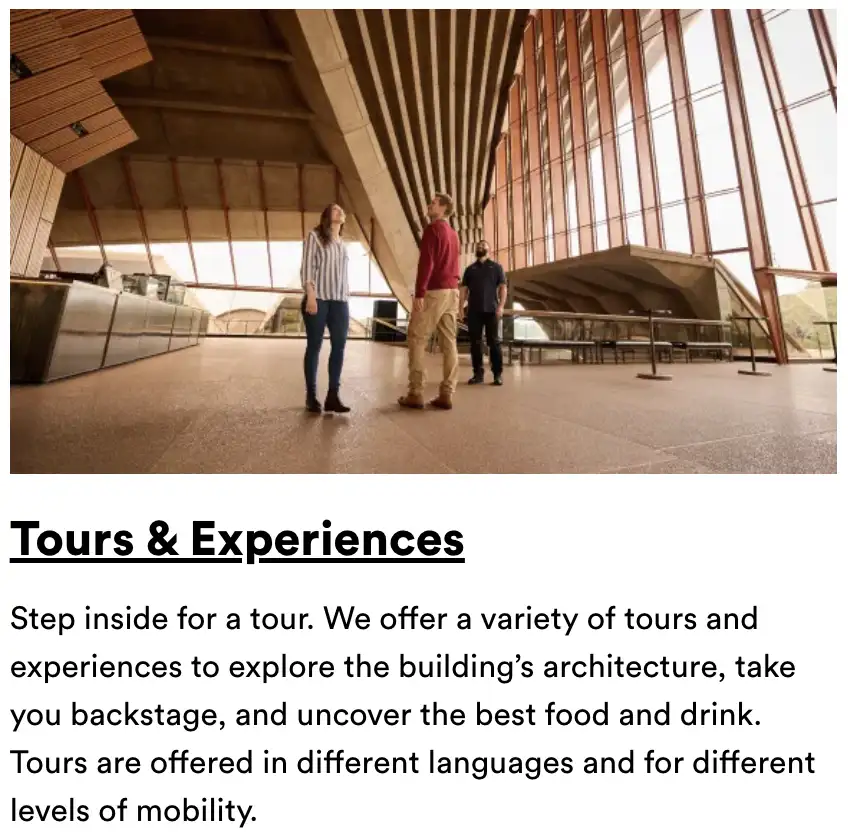
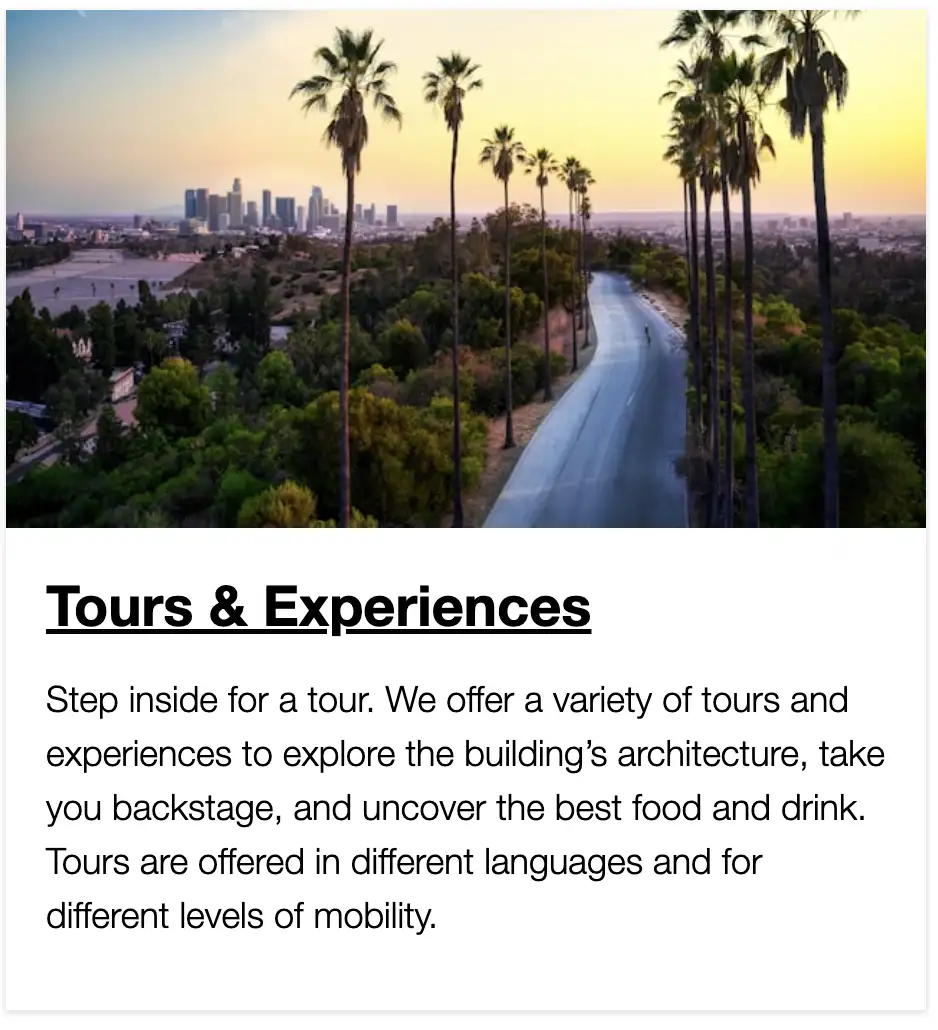
Completes editing and changes poster images

diff --git a/src/css/components/post.css b/src/css/components/post.css
@@ -49,22 +49,26 @@
   h2,
   h3,
   h4 {
-    margin-block-start: var(--size-30);
+    margin-block-start: var(--size-34);
     margin-block-end: var(--size-12);
   }
 
   h2 {
-    font-size: var(--font-size-20);
+    font-size: var(--font-size-22);
   }
 
   h3 {
-    font-size: var(--font-size-18);
+    font-size: var(--font-size-20);
   }
 
   ol {
     p {
       margin: 0;
     }
+  }
+
+  ul li ul {
+    margin-block-end: var(--size-24);
   }
 }
 

diff --git a/src/css/utilities/sizes.css b/src/css/utilities/sizes.css
@@ -19,6 +19,7 @@
   --size-28: 2.8rem;  /* 28px */
   --size-30: 3rem;    /* 30px */
   --size-32: 3.2rem;  /* 32px */
+  --size-34: 3.4rem;  /* 34px */
   --size-36: 3.6rem;  /* 36px */
   --size-40: 4rem;    /* 40px */
   --size-44: 4.4rem;  /* 44px */

diff --git a/src/blog/storybook-components.md b/src/blog/storybook-components.md
@@ -1,18 +1,24 @@
 ---
 date: "2024-05-01"
-title: "Integrating Storybook components with Drupal"
+title: "Integrating Drupal with Storybook components"
 tags: ['drupal','storybook','components']
 draft: false
 featured: true
-featuredImage: "/images/wall.webp"
-featuredImageAlt: "A brick wall"
-imageThumb: "/images/thumbs/wall-thumb.webp"
-featuredImageCredit: "Gustavo"
-featuredImageCreditUrl: "https://unsplash.com/@natura_photos"
+featuredImage: "/images/mountains.webp"
+featuredImageAlt: "Overlapped mountains painted with water colors"
+imageThumb: "/images/thumbs/mountains-thumb.webp"
+featuredImageCredit: "Alex Shutin"
+featuredImageCreditUrl: "https://unsplash.com/@fiveamstories"
 summary: "In this post we'll go over the process of making Drupal aware of the components we have built in Storybook."
 ---
 Hey you're back! 🙂 In the [previous post](../building-a-modern-drupal-theme-with-storybook) we talked about how to build a custom Drupal theme using Storybook as the design system.  We also built a simple component to demonstrate how Storybook, through the use of custom extensions, is able to understand Twig.  In this post, the focus will be on making Drupal aware of those components by connecting Drupal to Storybook.
-If you are following along, we will continue where we left off to take advantage of all the prep work we did in the previous post.
+If you are following along, we will continue where we left off to take advantage of all the prep work we did in the previous post. Topics we will cover in this post include:
+
+1. What is Drupal integration
+1. Installing and preparing Drupal for integration
+1. Building components in Storybook
+1. Building a basic front-end workflow
+1. Integrating Drupal with Storybook components
 
 ## What is Drupal integration?
 
@@ -22,20 +28,20 @@ The advantage of using a design system like Storybook is that you are in full co
 
 ## Getting a Drupal site ready
 
-In the previous post all the work we did was in a standalone project which did not require Drupal to run since all the work was about getting Storybook up and running, In this section, we will get the Drupal environment ready by building a basic Drupal site. If you are following along and already have a Drupal 10 site ready, you can skip the first step below;
+In the previous post all the work we did was in a standalone project which did not require Drupal to run, In this post, we get to interact with Drupal so we need at the very least a basic Drupal site up and running. If you are following along and already have a Drupal 10 site ready, you can skip the first step below;
 
 1. Build a basic Drupal 10 website ([I recommend using DDEV](https://ddev.readthedocs.io/en/stable/users/quickstart/#drupal){target=_blank rel=noopener}).
-1. Add the **storybook** theme to your website. If you completed the excercise in the previous post, you can copy the theme you built into your site's **/themes/custom/**. Otherwise, you can clone [the previous post repo](https://github.com/mariohernandez/storybook){target=_blank rel=nooperner} into the same location so it becomes your theme. After this your theme structure should look like this: **themes/custom/storybook**.
+1. Add the **storybook** theme to your website. If you completed the excercise in the previous post, you can copy the theme you built into your site's **/themes/custom/** directory, Otherwise, you can clone [the previous post repo](https://github.com/mariohernandez/storybook){target=_blank rel=nooperner} into the same location so it becomes your theme. After this your theme's path should be **themes/custom/storybook**.
 1. No need to enable the theme just yet, we'll comeback to the theme shortly.
-1. Create a new node of type Article, be sure to include body content. We'll use this node later in the process.
+1. Finally, create a new Article post that includes a title, body content and an image of your choice. We'll use this article later in the process.
 
 ## Back to Storybook
 
 The title component we built in the previous post may not be enough to demonstrate some of the advanced techniques when integrating components. We will build a larger component to put these techniques in practice. The component we will build is called **Card** and it looks like this:
 
-![People standing on lobby of large building](/images/storybook-card.webp){.body-image .body-image--narrow}
+![Palm trees in front of city buildings](/images/storybook-card.webp){.body-image .body-image--narrow}
 
-When building components, I like to take inventory of the different parts that make up the components I'm building. The card image above shows three parts: the image, the title, and the teaser text. Each of these parts translate into fields when I am defining the data structurefor the component or building the entity in Drupal.
+When building components, I like to take inventory of the different parts that make up the components I'm building. The card image above shows three parts: the image, the title, and the teaser text. Each of these parts translates into fields when I am defining the data structurefor the component or building the entity in Drupal.
 
 ## Building the Card component
 
@@ -47,7 +53,7 @@ When building components, I like to take inventory of the different parts that m
   * **card.twig**: component's markup and logic
   * **card.stories.jsx**: Storybook's story
   * **card.yml**: component's demo data
-* Update **card.yml** as follows:
+* Add the following code snippet to **card.yml**:
 {% raw %}
 
 ```yml
@@ -64,7 +70,7 @@ teaser: 'Step inside for a tour. We offer a variety of tours and experiences to 
 
 {% endraw %}
 
-* Update **card.twig** as follows:
+* Add the following to **card.twig** to provide the markup and logic for the card:
 {% raw %}
 
 ```php
@@ -97,7 +103,7 @@ teaser: 'Step inside for a tour. We offer a variety of tours and experiences to 
 
 * Copy [these styles](https://raw.githubusercontent.com/mariohernandez/storybook/card/src/components/02-molecules/card/card.css){target=_blank rel=noopener} into **card.css**.
 
-* Update **card.stories.jsx** as follows:
+* Finally, let's create the Storybook card story by adding the following to **card.stories.jsx**:
 {% raw %}
 
 ```js
@@ -128,13 +134,13 @@ Let's go over a few things regarding the code above:
 * **card.twig** reuses the title component we created in the previous post. This is Atomic Design in action. Because we built a flexible title component, we can use it on anything where a title is needed.
 * **card.stories.jsx** in the Storybook story for the Card, notice how the code in this file is very similar to the code in the **title.stories.jsx**. Even with complex components, when we port them into Storybook as stories, most times the code will be similar as what you see above because Storybook is simply rendering whatever is in **.twig** and **.yml** files. There are exceptions when the React code may have extra parameters or logic which typically happens when we're building stories variations.
 
-### Before we preview the Card, some changes are needed
+### Before we preview the Card, some updates are needed
 
-You may have noticed in **card.twig** we used the namespace **@atoms** when nesting the **title** component into the card. As previously described, you can have as many namespaces as needed based on your components organization and naming convention. The namespace above does not exist and we need to create it now. In addition, we need to move the **title** component from its original location:
+You may have noticed in **card.twig** we used the namespace **@atoms** when nesting the **title** component. The namespace above does not exist and we need to create it now. In addition, we need to move the **title** component into the **01-atoms** directory:
 
 * In your code editor or command line (whichever is easier), move the **title** directory into the **01-atoms** directory
 * In your editor, open **title.stories.jsx** and change the line **title: 'Components/Title'** to **title: 'Atoms/Title'**. This will display the title component within the Atoms category in Storybook's sidebar.
-* Rather than have you individually make changes inside **vite.config.js**, instead, replace all of its content with the following:
+* Rather than have you make individual changes to **vite.config.js**, let's replace/overwrite all of its content with the following:
 
 {% raw %}
 
@@ -177,21 +183,29 @@ export default defineConfig({
 
 {% endraw %}
 
-Let's go over the changes inside **vite.config.js**:
+Let's go over some of the most noticeable updates inside **vite.config.js**:
 
 * We have defined a few things to improve the functionality of our Vite project, starting with using **src** as our app root directory and **public** for publicDir. This helps the app understand the project structure in a relative manner.
-* Next we defined a Build task which provides the app some parameters and defaults for things like where should it compiled code to (i.e. **/dist**), and rollupOptions for instructiing the app which stylesheets to compile and what to call them.
+* Next we defined a Build task which provides the app with defaults for things like where should it compiled code to (i.e. **/dist**), and rollupOptions for instructing the app which stylesheets to compile and what to call them.
 * As part of the rollupOptions we also defined two stylesheets for global styles (**reset.css** and **styles.css**). We'll create these next.
-**IMPORTANT** This is as basic as it gets for a build job. When working on a bigger project with more components, it is best to define a more robust and dynamic workflow that automatically identifies and compiles your assets.
-* Under the Plugins section, we have defined two new namespaces, **@atoms** and **@molecules**, each of which points to specific path. These are the namespaces Storybook understands when incuding/nesting components. You can have as many namespaces as needed.
+**IMPORTANT** This is as basic as it gets for a build workflow and in no way would I recommend this be your front-end build workflow. When working on bigger projects with more components, it is best to define a more robust and dynamic workflow that provides automation for all the repeatitive tasks performed on a typical front-end project.
+* Under the Plugins section, we have defined two new namespaces, **@atoms** and **@molecules**, each of which points to specific path within our components directory. These are the namespaces Storybook understands when incuding/nesting components. You can have as many namespaces as needed.
 
 ### Adding global styles
 
 * Inside the **src** directory, create a new directory called **css**
 * Inside the **css** directory, add two new files, **reset.css** and **styles.css**
 * Copy and paste the styles for [reset.css](https://raw.githubusercontent.com/mariohernandez/storybook/card/src/css/reset.css){target=_blank rel=noopener} and [styles.css](https://raw.githubusercontent.com/mariohernandez/storybook/card/src/css/styles.css){target=_blank rel=noopener}
+* Now in order for Storybook to use _reset.css_ and _styles.css_, we need to update **/.storybook/preview.js** by adding these two imports directly after the current imports, around line 4.
 
-Now we are ready to preview the Card story in Storybook.
+{% raw %}
+
+```js
+import '../dist/css/reset.css';
+import '../dist/css/styles.css';
+```
+
+{% endraw %}
 
 ### Previewing the Card in Storybook
 
@@ -203,11 +217,14 @@ Now we are ready to preview the Card story in Storybook.
 ```shell
 nvm install
 npm install
+npm run build
 npm run storybook
 ```
 
 {% endraw %}
 _Remember, you need NodeJS v20 or higher as well as NVM installed on your machine_.
+
+**NOTE**: The command `npm run build` is required the first time you are building your Storybook app and whenever major changes are made to the app's configuration. After that, you can simply run `npm run storybook`.
 
 After Storybook launches, you should see two story categories in Storybook's sidebar, **Atoms** and **Molecules**. The title component should be under Atoms and the Card under Molecules. See below:
 
@@ -225,14 +242,12 @@ With the Card component now in place, let's change our attention back to Drupal.
 ```yml
 components:
   namespaces:
-    atoms:
-      - src/components/01-atoms
-    molecules:
-      - src/components/02-molecules
+    atoms: src/components/01-atoms
+    molecules: src/components/02-molecules
 ```
 
 {% endraw %}
-_These are the same namespaces we created earlier for Storybook, but this time we are creating them for Drupal_
+_These are the same namespaces we created earlier for Storybook, but this time we are creating them for Drupal_.
 
 * Override all content in **storybook.libraries.yml** with the following:
 
@@ -255,44 +270,42 @@ card:
 
 {% endraw %}
 
+* Let's go over the changes to both, **storybook.info.yml** and **storybook.libraries.yml** files:
+
+  * The block of code we added in **storybook.info.yml** is critical for Drupal to find our components in Storybook.  Using the Components libraries module allows us to create namespaces. Namespaces make it easier for us to tell Drupal where to look for our components since each namespace (`@atoms`, `@molecules`, etc.), is associated with a specific path to the corresponding components. This is important because Drupal by default only looks for Twig templates inside the **/templates** directory.
+  * We added two CSS stylesheets (reset.css and styles.css), that handle base styles in our theme. Those stylesheets are included in the Global library.  In addition, if you recall when we created the Card component, the first line inside **card.twig** is a Twig attach library statement. Using libraries is the recommended way for adding CSS and JS to pages/components.  The library does not exist so in the second part of the code snippet in **storybook.libraries.yml** we add the library so Drupal can make use of the card's CSS and JS (if available).
+
 * Enable the Storybook theme and make it the default theme.
-
-Let's go over the changes to both, **storybook.info.yml** and **storybook.libraries.yml** files:
-
-* The block of code we added in **storybook.info.yml** is critical for Drupal to find our components in Storybook.  Using the Components libraries module allows us to create namespaces. Namespaces make it easier for us to tell Drupal where to look for our components since each namespace (`@atoms`, `@molecules`, etc.), is associated with a specific path to the corresponding components. This is important because Drupal by default only looks for Twig templates inside the **/templates** directory.
-* We added two CSS stylesheets (reset.css and styles.css), that handle base styles in our theme. Those stylesheets are included in the Global library.  In addition, if you recall when we created the Card component, the first line inside **card.twig** is a Twig attach library statement. Using libraries is the recommended way for adding CSS and JS to pages/components.  The library does not exist so in the second part of the code snippet in **storybook.libraries.yml** we add the library so Drupal can make use of the card's CSS and JS (if available).
 
 ## Integrating the Card component
 
 ### Template suggestions
 
-All the pieces are in place to Integrate the Card component so Drupal can use it to render each news article when viewed in Teaser view mode.
+All the pieces are in place to Integrate the Card component so Drupal can use it to render article nodes when viewed in teaser view mode.
 
-* The first thing we need to do to begin the integration process is to determine which Twig template Drupal uses to render news articles in teaser view mode. One easy way to do this is to turn on Twig debugging. This used to be a complex configuration but starting with Drupal 10.1 you can now do it directly in Drupal's UI:
+* The first thing we need to do to begin the integration process is to determine which Twig template Drupal uses to render article nodes in teaser view mode. One easy way to do this is by turning Twig debugging on. This used to be a complex configuration but starting with Drupal 10.1 you can now do it directly in Drupal's UI:
 
   * While logged in with admin access, navigate to `/admin/config/development/settings` on your browser. This will bring up the Development settings page.
   * Check all the boxes on this page and click **Save settings**.  This will enable Twig debugging and disable caching.
 
-* With Twig debugging on, go to the homepage where the Article we created should be displayed in teaser mode. If you right-click on any part of the news article and select **inspect** from the context menu, you will see in detail all the templates Drupal is using to render the content on the current page.
+* With Twig debugging on, go to the homepage where the Article we created should be displayed in teaser mode. If you right-click on any part of the article and select **inspect** from the context menu, you will see in detail all the templates Drupal is using to render the content on the current page.
 **NOTE**: If your homepage does not display Article nodes in teaser view mode, you could create a simple Drupal view to list Article nodes in teaser view mode to follow along.
 
 ![Code inspector showing Drupal debugging](/images/storybook-debug.webp)
 _Example of code inspector showing Drupal templates_
 
-There are a lot of templates to see here but the ones we are interested in are the one with the name **node...***. These are the templates used to display any type of node in Drupal. In addition to template names, Twig debugging also tells us where the template being used is located (Drupal core, a module, our theme, etc.).
+There are a lot of templates to see here but the ones we are interested in are the ones with the name **node...***. These are the templates used to display any type of node in Drupal. In addition to template names, Twig debugging also tells us where the template being used is located (Drupal core, a module, our theme, etc.).
 I have marked with an arrow the template **node.html.twig**, which is the one Drupal is currently using to render the Article node. The template with an **X** before its name is the one currently being used to render the article.
-Just above the active template see a list of more templates that start with **node...**. These are known as template suggestions. Drupal is basically telling us that if we want to override the way a node is rendered, we can create a template inside our theme with any of the names being suggested.  The higher the template appears on that list, the more specific it is to the piece of content being rendered. For example, changes made to **_**node.html.twig**_** would affect ALL nodes throughout the site, whereas changes made to **node--article--teaser.html.twig** will only affect nodes of type **article** when displayed in **teaser** view mode.
+Just above the active template see a list of more templates that start with **node...**. These are known as template suggestions. Drupal is basically telling us that if we want to override the way a node is rendered, we can create a template inside our theme with any of the names being suggested.  The higher the template appears on the list, the more specific it is to the piece of content being rendered. For example, changes made to **_**node.html.twig**_** would affect ALL nodes throughout the site, whereas changes made to **node--article--teaser.html.twig** will only affect nodes of type **article** when displayed in **teaser** view mode.
 With this information on hand, it is clear to us the template suggestion we need to create is **node--article--teaser.html.twig**.
 
 #### Copy the template
 
-It's best to create our template suggestion by copying a similar template to the one we want to create.
+By looking at the path of the template in the code inspector, we can see that the original template being used is located inside the Olivero core theme. It's best to create our template suggestion by copying a similar template to the one we want to create.
 
-* Copy **/core/themes/olivero/templates/content/node--teaser.html.twig** into your theme's **/storybook/templates/content/**. Create the directory if it does not exist in yoru theme.
+* Copy **/core/themes/olivero/templates/content/node--teaser.html.twig** into your theme's **/storybook/templates/content/**. Create the directory if it does not exist.
 
 The template we just copied has a lot of information that may or may not be needed when integrating it with Storybook. If you recall, the Card component we built was made up of three parts: an image, a title, and teaser text.  Each of those are Drupal fields and these are the only fields we care about when integrating. Whenever I copy a template from Drupal core or a module into my theme, I like to leave the comments on the template untouched. This is helpful because this way you can reference all the details about the template as you override it.
-
-* Rename the newly copied template to **node--article--teaser.html.twig**
 
 ### The actual integration
 
@@ -304,11 +317,12 @@ The template we just copied has a lot of information that may or may not be need
 ```php
 {% set render_content = content|render %}
 
-{% set article_title =
-  'level': h2,
-  'modifier': 'card__title',
-  'text': label,
-  'url': url
+{% set article_title = {
+    'level': 2,
+    'modifier': 'card__title',
+    'text': label,
+    'url': url,
+  }
 %}
 
 {% include '@molecules/card/card.twig' with {
@@ -321,15 +335,20 @@ The template we just copied has a lot of information that may or may not be need
 
 {% endraw %}
 
-* We set a variable with `content|render` as its value. The only purpose for this variable is to make Drupal aware of the entire content array for chacing purposes.
-* Next we setup a variable called **article_title** so we can structure the title field the same way the title component was built.
-* We are using a Twig **include** statement with our namespace, **@molecules**, to nest the Card component into the node template. The same way we nested the Title component into the Card.
-* We map Drupal's attributes into the component's attributes placeholder so Drupal can inject any attributes such as CSS classes, IDs, Data attributes, etc. into the component.  This is important because we want to make sure our components still take advantage of everything Drupal has to offer.
-* Finally we map the image, title and teaser fields from Drupal to the component's equivalent fields.
+* We set a variable with `content|render` as its value. The only purpose for this variable is to make Drupal aware of the entire content array for caching purposes.
+* Next we setup a variable called **article_title** which we structured the same way as the title component:
+  * Notice how for the **text** and **url** properties we are using Drupal specific variables (**label** and **url**), accordingly. If you look in the comments in _node--article--teaser.html.twig_ you will see these two variables.
+* We are using a Twig **include** statement with the **@molecules** namespace to nest the Card component into the node template. The same way we nested the Title component into the Card.
+* We mapped Drupal's attributes into the component's attributes placeholder so Drupal can inject any attributes such as CSS classes, IDs, Data attributes, etc. into the component.  This is important because we want to make sure that although our markup is custom, our components still take advantage of everything Drupal has to offer.
+* Finally we mapped the image, title and teaser fields from Drupal to the component's equivalent fields.
 * Save the changes to the template and clear Drupal's cache
-* Reload the homepage and you should see the news article being rendered using the Card component. See below:
+* Reload the homepage and you should see the article node being rendered using the Card component. See below:
 ![Example of twig debugging](/images/integrated-card.webp){.body-image .body-image--narrow}
-* If you right-click on the article and select **Inspect**, you will notice that Drupal is now using **node--article--teaser.html.twig** to render the article. We know this because now there is an **X** before the template name. You will also noticed that the article is using the custom markup we wrote for the Card component which is more semantic, accessible and easier to maintain.
+* If you right-click on the article and select **Inspect**, you will notice the following:
+  * Drupal is now using our **node--article--teaser.html.twig**, we can tell because the filename with an **X** before its name is **node--article--teaser.html.twig** but if we look a little lower we will see **BEGIN OUTPUT From 'themes/custom/storybook/src/templates/content/node--article--teaser.html.twig'**.
+  * You will also noticed that the article is using the custom markup we wrote for the Card component which is more semantic, accessible, but in addition to this, the **`<article>`** tag is also inheriting several other attributes that were provided by Drupal through its Attributes variable. See below:
+
+![Drupal template suggestions in code inspector](/images/attr.webp){.body-image .body-image--wide}
 
 
 ## In closing

diff --git a/src/blog/drupal-and-storybook.md b/src/blog/drupal-and-storybook.md
@@ -303,7 +303,7 @@ _The controls highlighted at the bottom of the title allow you to change the val
 
 I wanted to start with the simplest of components, the title, to show how Storybook, with help from the extensions we installed, understands Twig. The good news is that the same approach we took with the title component works on even more complex components. Even the React code we wrote does not change much on large components.
 
-In the [next blog post](../integrating-storybook-components-with-drupal), we will build more components that nest smaller components, and we will also add Drupal related parts and configuration to our theme so we can begin using the theme in a Drupal site.  Finally, we will integrate the components we built in Storybook with Drupal so our content can be rendered using the component we're building. Stay tuned. For now, if you want to grab a copy of all the code in this post, you can do so below.
+In the [next blog post](../integrating-drupal-with-storybook-components), we will build more components that nest smaller components, and we will also add Drupal related parts and configuration to our theme so we can begin using the theme in a Drupal site.  Finally, we will integrate the components we built in Storybook with Drupal so our content can be rendered using the component we're building. Stay tuned. For now, if you want to grab a copy of all the code in this post, you can do so below.
 
 [Download the code](https://github.com/mariohernandez/storybook){.button .button--reverse target=_blank rel=noopener}
 
